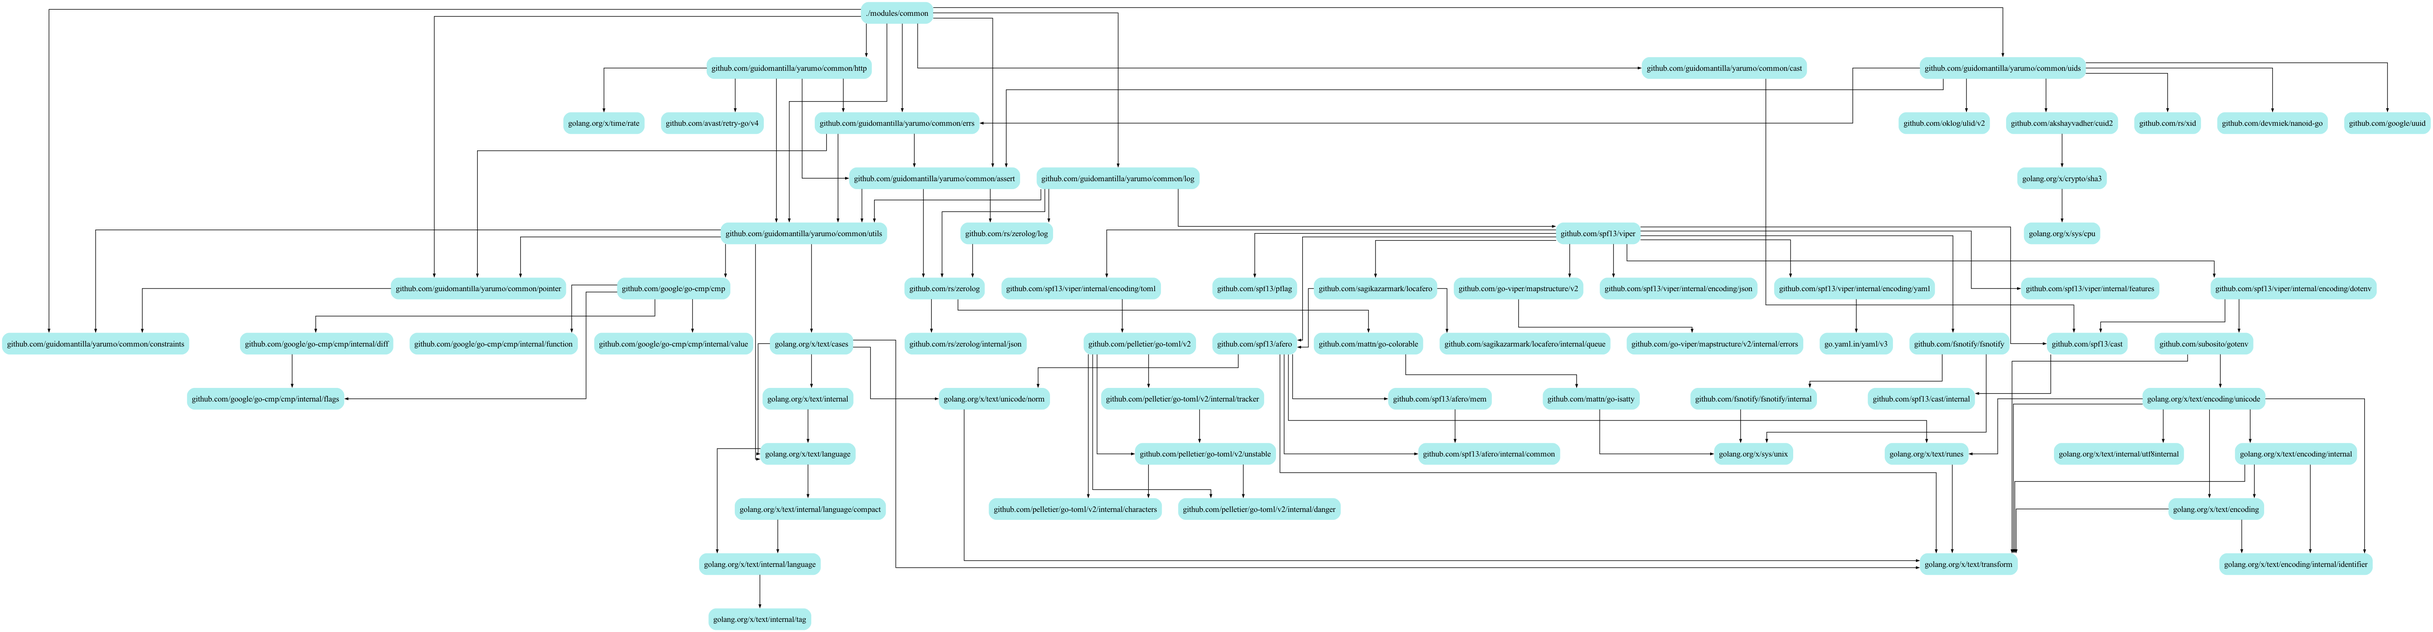
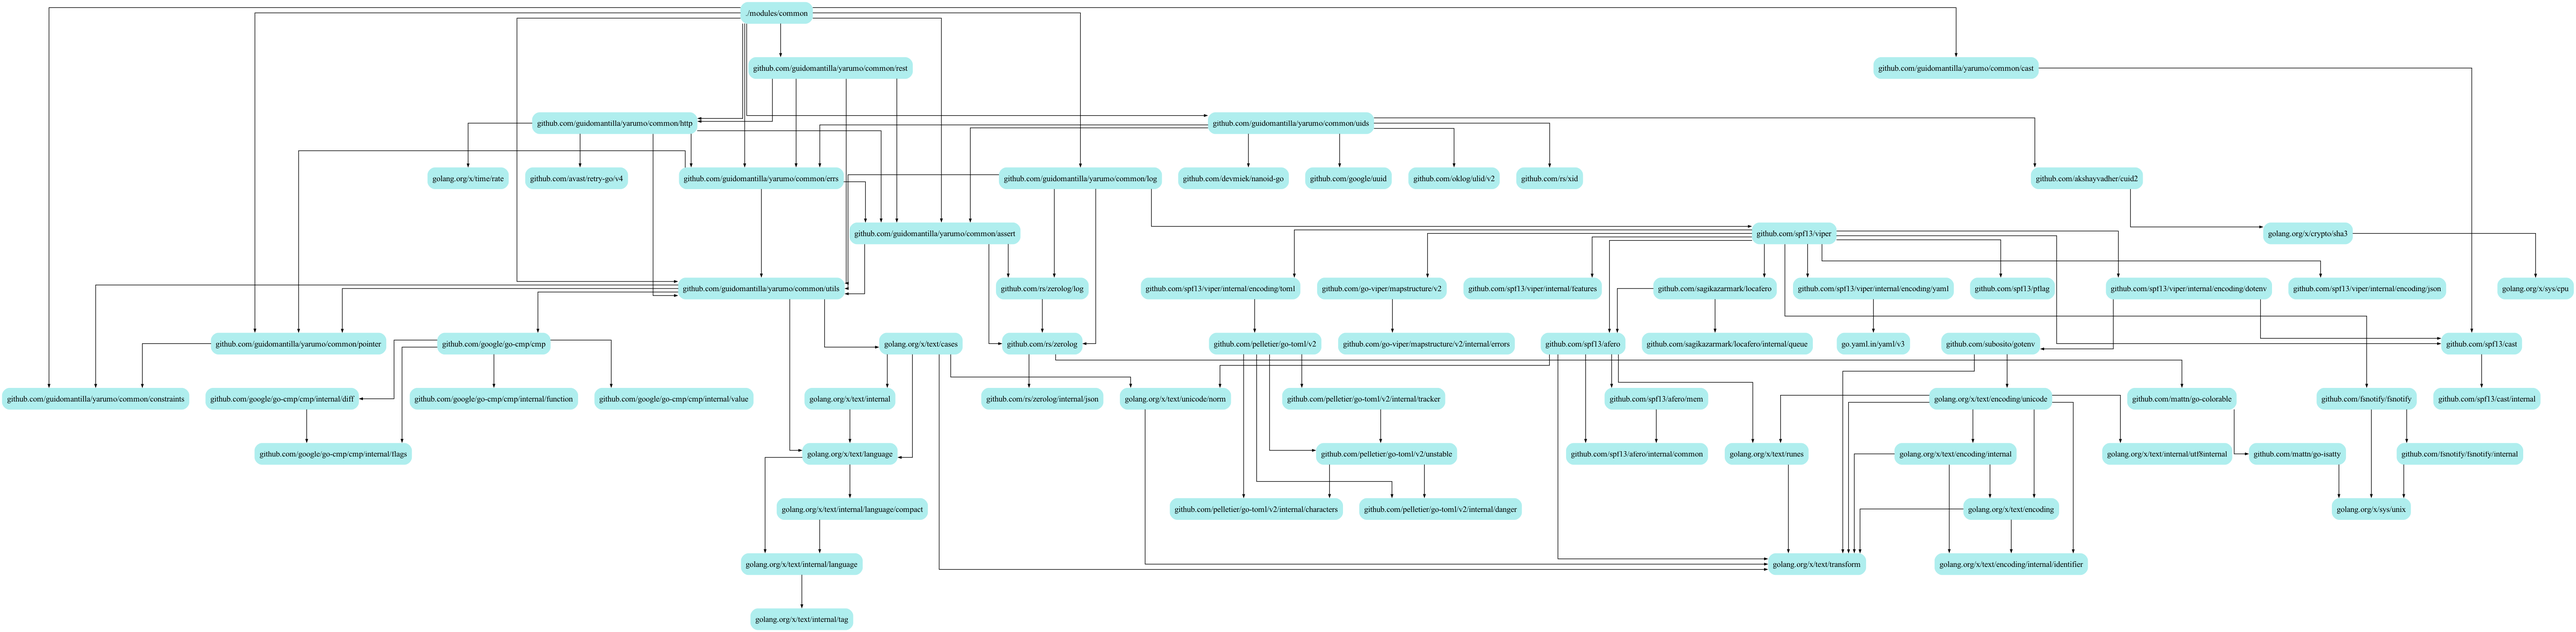
updates

diff --git a/modules/servers/server_http_test.go b/modules/servers/server_http_test.go
@@ -1,0 +1,116 @@
+package servers
+
+import (
+	"context"
+	"fmt"
+	"net"
+	"net/http"
+	"testing"
+	"time"
+)
+
+func TestBuildHttpServer(t *testing.T) {
+	s := &http.Server{Addr: "127.0.0.1:0"} //nolint:gosec
+	name, srv := BuildHttpServer(s)
+	if name != "http-server" {
+		t.Fatalf("unexpected name: %s", name)
+	}
+	if srv == nil {
+		t.Fatal("expected non-nil server")
+	}
+}
+
+func TestNewHttpServer_AllowsNilForCoverage(t *testing.T) {
+	// Exercise assert.NotNil branch (it only logs)
+	_ = NewHttpServer(nil)
+}
+
+func TestHttpServer_RunAndStop_Success(t *testing.T) {
+	s := &http.Server{Addr: "127.0.0.1:0"} //nolint:gosec
+	hs := NewHttpServer(s).(*httpServer)
+
+	ctx := context.Background()
+	done := make(chan error, 1)
+	go func() { done <- hs.Run(ctx) }()
+
+	// Wait a bit for server to start listening
+	time.Sleep(100 * time.Millisecond)
+
+	// Stop will cause Shutdown -> ListenAndServe returns http.ErrServerClosed
+	if err := hs.Stop(ctx); err != nil {
+		t.Fatalf("stop returned error: %v", err)
+	}
+	select {
+	case err := <-done:
+		if err != nil {
+			t.Fatalf("run returned error: %v", err)
+		}
+	case <-time.After(2 * time.Second):
+		t.Fatal("run did not finish in time")
+	}
+}
+
+func TestHttpServer_Run_ErrorOnStart(t *testing.T) {
+	// Invalid port should make ListenAndServe fail immediately
+	s := &http.Server{Addr: "127.0.0.1:-1"} //nolint:gosec
+	hs := NewHttpServer(s)
+	err := hs.Run(context.Background())
+	if err == nil {
+		t.Fatal("expected error")
+	}
+	if se, ok := err.(*ServerError); !ok || se.Type != ServerStartType {
+		t.Fatalf("expected ServerError type=start, got %#v", err)
+	}
+}
+
+func TestHttpServer_Stop_WrapsError(t *testing.T) {
+	// Start a server, trigger a long-running handler, then shutdown with short timeout
+	// to force context.DeadlineExceeded from Shutdown.
+	ln, err := net.Listen("tcp", "127.0.0.1:0")
+	if err != nil {
+		t.Fatalf("listen: %v", err)
+	}
+	addr := ln.Addr().(*net.TCPAddr)
+	ln.Close()
+	chosen := fmt.Sprintf("127.0.0.1:%d", addr.Port)
+
+	entered := make(chan struct{})
+	release := make(chan struct{})
+	s := &http.Server{Addr: chosen, Handler: http.HandlerFunc(func(w http.ResponseWriter, r *http.Request) { //nolint:gosec
+		// Signal we've entered the handler, then block until released
+		close(entered)
+		<-release
+		w.WriteHeader(http.StatusOK)
+	})}
+	hs := NewHttpServer(s).(*httpServer)
+
+	done := make(chan error, 1)
+	go func() { done <- hs.Run(context.Background()) }()
+	// Give it time to start
+	time.Sleep(100 * time.Millisecond)
+
+	// Fire a request and wait until the handler is running
+	clientDone := make(chan struct{})
+	go func() {
+		_, _ = http.Get("http://" + chosen)
+		close(clientDone)
+	}()
+	<-entered
+
+	ctx, cancel := context.WithTimeout(context.Background(), 10*time.Millisecond)
+	defer cancel()
+	stopErr := hs.Stop(ctx)
+	if stopErr == nil {
+		t.Fatal("expected error from Stop with short timeout")
+	}
+	if se, ok := stopErr.(*ServerError); !ok || se.Type != ServerStopType {
+		t.Fatalf("expected ServerError type=stop, got %#v", stopErr)
+	}
+
+	// Ensure the server is properly stopped for test cleanup
+	// Release the handler in case Shutdown returned early but handler is still blocked
+	close(release)
+	_ = hs.Stop(context.Background())
+	<-clientDone
+	<-done
+}

diff --git a/modules/servers/server_grpc_test.go b/modules/servers/server_grpc_test.go
@@ -1,0 +1,72 @@
+package servers
+
+import (
+	"context"
+	"errors"
+	"net"
+	"net/http"
+	"testing"
+)
+
+type fakeGrpc struct {
+	serveErr error
+	stopped  bool
+}
+
+func (f *fakeGrpc) Serve(l net.Listener) error { return f.serveErr }
+
+func (f *fakeGrpc) GracefulStop() { f.stopped = true }
+
+func TestBuildGrpcServer(t *testing.T) {
+	f := &fakeGrpc{}
+	name, srv := BuildGrpcServer("127.0.0.1:0", f)
+	if name != "grpc-server" || srv == nil {
+		t.Fatalf("unexpected: name=%s srv=%v", name, srv)
+	}
+}
+
+func TestNewGrpcServer_AssertionsCoverage(t *testing.T) {
+	// Exercise asserts for empty address and nil server (they only log)
+	_ = NewGrpcServer("", nil)
+}
+
+func TestGrpcServer_Run_ServeClosedOK(t *testing.T) {
+	f := &fakeGrpc{serveErr: http.ErrServerClosed}
+	gs := NewGrpcServer("127.0.0.1:0", f).(*grpcServer)
+
+	// Run should treat ErrServerClosed as success
+	if err := gs.Run(context.Background()); err != nil {
+		t.Fatalf("unexpected error: %v", err)
+	}
+}
+
+func TestGrpcServer_Run_ListenError(t *testing.T) {
+	f := &fakeGrpc{}
+	gs := NewGrpcServer("127.0.0.1:-1", f)
+	if err := gs.Run(context.Background()); err == nil {
+		t.Fatal("expected error")
+	} else if se, ok := err.(*ServerError); !ok || se.Type != ServerStartType {
+		t.Fatalf("expected ServerError type=start, got %#v", err)
+	}
+}
+
+func TestGrpcServer_Run_ServeError(t *testing.T) {
+	f := &fakeGrpc{serveErr: errors.New("boom")}
+	gs := NewGrpcServer("127.0.0.1:0", f)
+	if err := gs.Run(context.Background()); err == nil {
+		t.Fatal("expected error")
+	} else if se, ok := err.(*ServerError); !ok || se.Type != ServerStartType {
+		t.Fatalf("expected ServerError type=start, got %#v", err)
+	}
+}
+
+func TestGrpcServer_Stop(t *testing.T) {
+	f := &fakeGrpc{}
+	gs := NewGrpcServer("127.0.0.1:0", f).(*grpcServer)
+	if err := gs.Stop(context.Background()); err != nil {
+		t.Fatalf("unexpected error: %v", err)
+	}
+	if !f.stopped {
+		t.Fatal("expected GracefulStop to be called")
+	}
+}

diff --git a/modules/servers/server_base_test.go b/modules/servers/server_base_test.go
@@ -1,0 +1,54 @@
+package servers
+
+import (
+	"context"
+	"testing"
+	"time"
+)
+
+// Test BuildBaseServer returns expected name and non-nil server
+func TestBuildBaseServer(t *testing.T) {
+	name, srv := BuildBaseServer()
+	if name != "base-server" {
+		t.Fatalf("unexpected name: %s", name)
+	}
+	if srv == nil {
+		t.Fatal("expected non-nil server")
+	}
+}
+
+func TestBaseServer_RunAndStop(t *testing.T) {
+	srv := NewBaseServer().(*baseServer)
+
+	ctx, cancel := context.WithCancel(context.Background())
+	defer cancel()
+
+	done := make(chan error, 1)
+	go func() { done <- srv.Run(ctx) }()
+
+	// Give some time to start and block on channel
+	time.Sleep(50 * time.Millisecond)
+
+	if err := srv.Stop(ctx); err != nil {
+		t.Fatalf("stop returned error: %v", err)
+	}
+
+	select {
+	case err := <-done:
+		if err != nil {
+			t.Fatalf("run returned error: %v", err)
+		}
+	case <-time.After(1 * time.Second):
+		t.Fatal("run did not return after stop")
+	}
+}
+
+// Ensure assertions are exercised (they log at Fatal level but do not exit)
+func TestBaseServer_AssertionsCoverage(t *testing.T) {
+	srv := &baseServer{closeChannel: make(chan struct{})}
+	// ctx nil path
+	_ = srv // avoid lint
+	// We cannot call Run(nil) because of type, but we can call Stop with ctx
+	// and simply ensure method executes. The NotNil checks log internally.
+	_ = srv.Stop(context.Background())
+}

diff --git a/modules/servers/server_cron_test.go b/modules/servers/server_cron_test.go
@@ -1,0 +1,59 @@
+package servers
+
+import (
+	"context"
+	"testing"
+	"time"
+)
+
+type fakeCron struct {
+	started bool
+	stopped bool
+}
+
+func (f *fakeCron) Start() { f.started = true }
+
+func (f *fakeCron) Stop() { f.stopped = true }
+
+func TestBuildCronServer(t *testing.T) {
+	fc := &fakeCron{}
+	name, srv := BuildCronServer(fc)
+	if name != "cron-server" || srv == nil {
+		t.Fatalf("unexpected: name=%s srv=%v", name, srv)
+	}
+}
+
+func TestNewCronServer_AssertionsCoverage(t *testing.T) {
+	// Exercise assert for nil cron (it only logs)
+	_ = NewCronServer(nil)
+}
+
+func TestCronServer_RunAndStop(t *testing.T) {
+	fc := &fakeCron{}
+	cs := NewCronServer(fc).(*cronServer)
+
+	ctx := context.Background()
+	done := make(chan error, 1)
+	go func() { done <- cs.Run(ctx) }()
+
+	time.Sleep(50 * time.Millisecond)
+	if !fc.started {
+		t.Fatal("expected Start to be called")
+	}
+
+	if err := cs.Stop(ctx); err != nil {
+		t.Fatalf("stop returned error: %v", err)
+	}
+	if !fc.stopped {
+		t.Fatal("expected Stop to be called")
+	}
+
+	select {
+	case err := <-done:
+		if err != nil {
+			t.Fatalf("run returned error: %v", err)
+		}
+	case <-time.After(1 * time.Second):
+		t.Fatal("run did not finish after stop")
+	}
+}

diff --git a/modules/servers/errors_test.go b/modules/servers/errors_test.go
@@ -1,0 +1,26 @@
+package servers
+
+import (
+	"errors"
+	"testing"
+)
+
+func TestServerErrors_WrappingAndType(t *testing.T) {
+	base := errors.New("boom")
+
+	e1 := ErrServerFailedToStart("x", base)
+	if se, ok := e1.(*ServerError); !ok || se.Type != ServerStartType {
+		t.Fatalf("expected start type, got %#v", e1)
+	}
+	if !errors.Is(e1, base) {
+		t.Fatal("expected error to wrap base")
+	}
+
+	e2 := ErrServerFailedToStop("x", base)
+	if se, ok := e2.(*ServerError); !ok || se.Type != ServerStopType {
+		t.Fatalf("expected stop type, got %#v", e2)
+	}
+	if !errors.Is(e2, base) {
+		t.Fatal("expected error to wrap base")
+	}
+}

diff --git a/modules/common/graph.go b/modules/common/graph.go
@@ -8,6 +8,7 @@ import (
 	_ "github.com/guidomantilla/yarumo/common/http"
 	_ "github.com/guidomantilla/yarumo/common/log"
 	_ "github.com/guidomantilla/yarumo/common/pointer"
+	_ "github.com/guidomantilla/yarumo/common/rest"
 	_ "github.com/guidomantilla/yarumo/common/uids"
 	_ "github.com/guidomantilla/yarumo/common/utils"
 )
